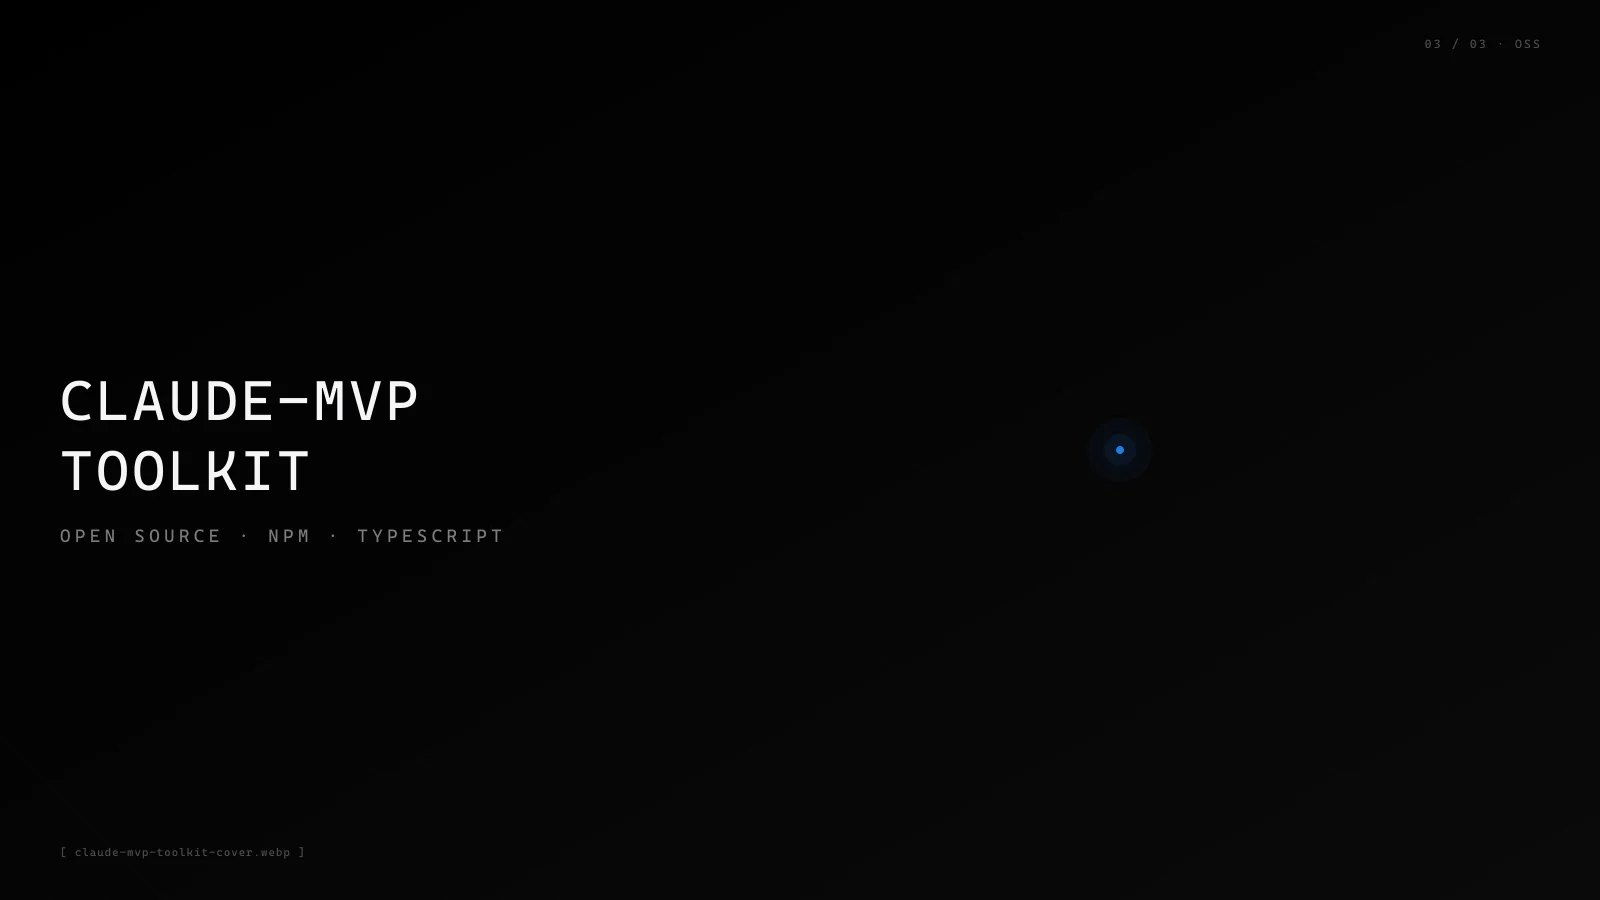
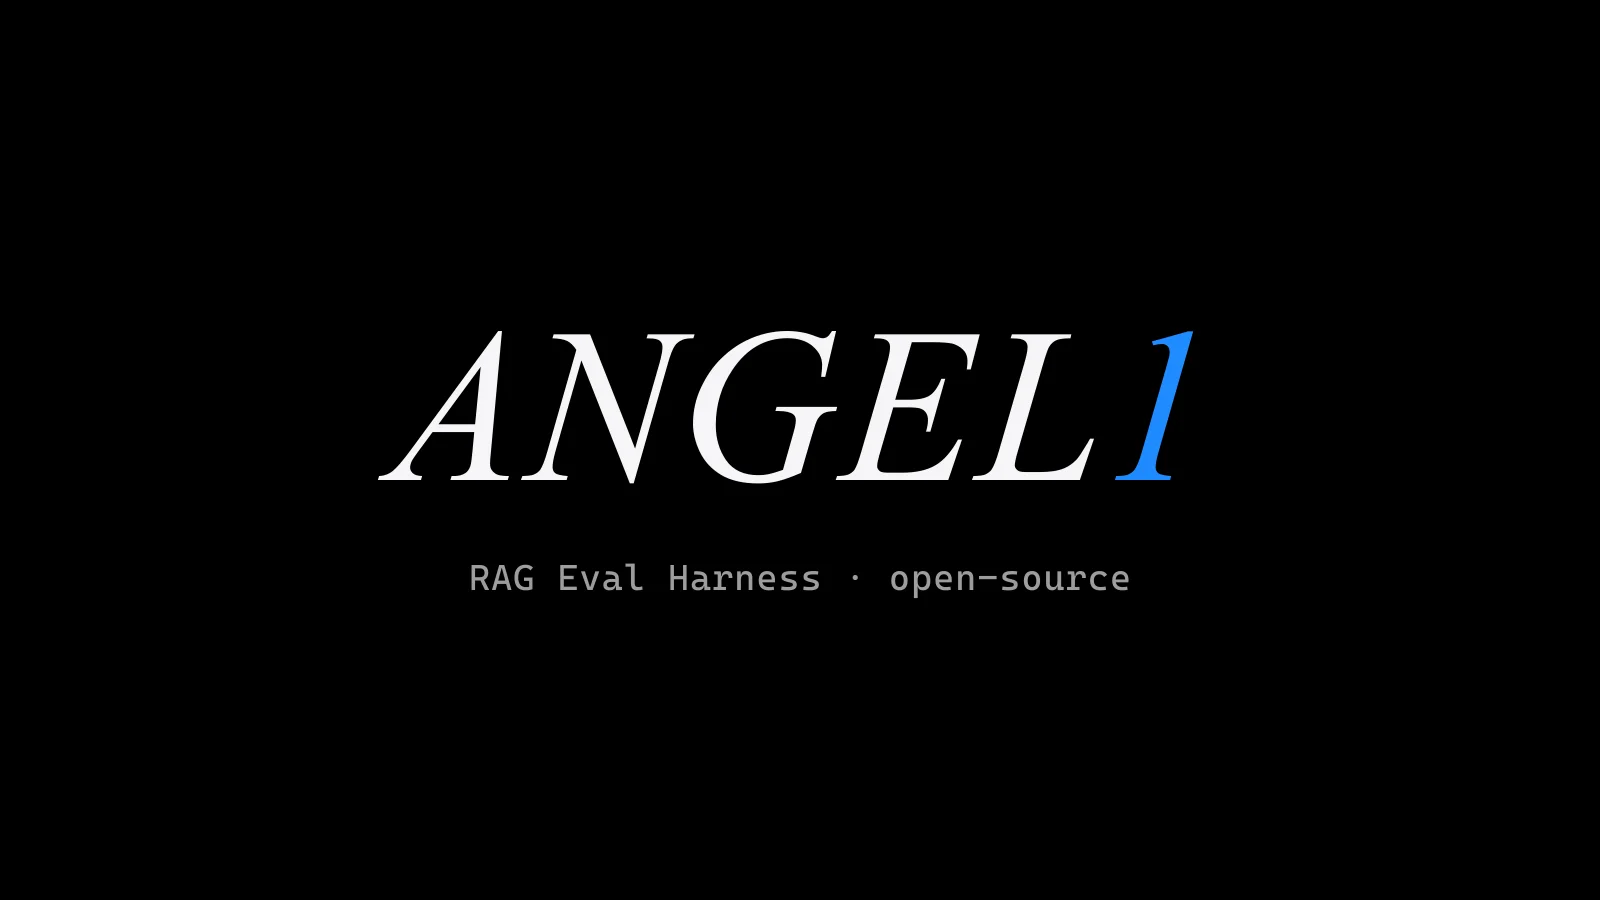
feat(work): add real cover screenshots for Lore + Email Triage
- Replace placeholder webp covers with real screenshots from deployed apps:
  - lore-cover.webp: login page of ai-support-dashboard-six.vercel.app (with new Angel1 wordmark + demoSession copy)
  - email-triage-cover.webp: dashboard demo of email-triage-lime.vercel.app (unified accent blue + new logo)
- Re-export angel1-mvp-toolkit and angel1-rag-eval branded SVG covers for consistency

diff --git a/scripts/work-covers/convert-to-webp.js b/scripts/work-covers/convert-to-webp.js
@@ -1,0 +1,53 @@
+const sharp = require('sharp');
+const path = require('path');
+const fs = require('fs');
+
+const OUT = path.join(__dirname, '..', '..', 'public', 'images', 'work');
+const INPUT = path.join(__dirname, 'output');
+
+if (!fs.existsSync(OUT)) fs.mkdirSync(OUT, { recursive: true });
+
+// Branded SVG covers for toolkit + rag-eval
+const TOOLKIT_SVG = `<svg xmlns="http://www.w3.org/2000/svg" viewBox="0 0 1600 900">
+  <rect width="1600" height="900" fill="#000"/>
+  <text x="800" y="480" font-family="Inter,system-ui,sans-serif" font-weight="500" font-style="italic" font-size="220" fill="#f5f5f7" text-anchor="middle" letter-spacing="4">ANGEL<tspan fill="#1F8BFF">1</tspan></text>
+  <text x="800" y="590" font-family="Inter,system-ui,sans-serif" font-weight="400" font-size="36" fill="#9d9d9d" text-anchor="middle" letter-spacing="1">claude-mvp-toolkit · npm · MIT</text>
+</svg>`;
+
+const RAG_SVG = `<svg xmlns="http://www.w3.org/2000/svg" viewBox="0 0 1600 900">
+  <rect width="1600" height="900" fill="#000"/>
+  <text x="800" y="480" font-family="Inter,system-ui,sans-serif" font-weight="500" font-style="italic" font-size="220" fill="#f5f5f7" text-anchor="middle" letter-spacing="4">ANGEL<tspan fill="#1F8BFF">1</tspan></text>
+  <text x="800" y="590" font-family="Inter,system-ui,sans-serif" font-weight="400" font-size="36" fill="#9d9d9d" text-anchor="middle" letter-spacing="1">RAG Eval Harness · open-source</text>
+</svg>`;
+
+const JOBS = [
+  {
+    input: path.join(INPUT, 'lore-cover.png'),
+    output: path.join(OUT, 'lore-cover.webp'),
+    label: 'lore-cover.webp',
+  },
+  {
+    input: path.join(INPUT, 'email-triage-cover.png'),
+    output: path.join(OUT, 'email-triage-cover.webp'),
+    label: 'email-triage-cover.webp',
+  },
+  {
+    svg: Buffer.from(TOOLKIT_SVG),
+    output: path.join(OUT, 'angel1-mvp-toolkit-cover.webp'),
+    label: 'angel1-mvp-toolkit-cover.webp',
+  },
+  {
+    svg: Buffer.from(RAG_SVG),
+    output: path.join(OUT, 'angel1-rag-eval-cover.webp'),
+    label: 'angel1-rag-eval-cover.webp',
+  },
+];
+
+(async () => {
+  for (const job of JOBS) {
+    const src = job.svg ? sharp(job.svg) : sharp(job.input);
+    await src.resize(1600, 900, { fit: 'cover' }).webp({ quality: 85 }).toFile(job.output);
+    const kb = Math.round(fs.statSync(job.output).size / 1024);
+    console.log(`✓ ${job.label} — ${kb} KB`);
+  }
+})();

diff --git a/src/pages/index.tsx b/src/pages/index.tsx
@@ -22,7 +22,7 @@ const WORK_CARDS: WorkCard[] = [
     title: "Lore",
     tagline:
       "A multi-tenant RAG copilot with embeddable widget, streaming chat, and per-message cost tracking — shipped end-to-end in nine days.",
-    hero: "/images/work/ai-support-dashboard-cover.webp",
+    hero: "/images/work/lore-cover.webp",
     chips: ["FEATURED", "AI MVP FULL · 3 WEEKS"],
     stack: ["NEXT.JS", "SUPABASE", "CLAUDE", "PGVECTOR"],
     stats: [